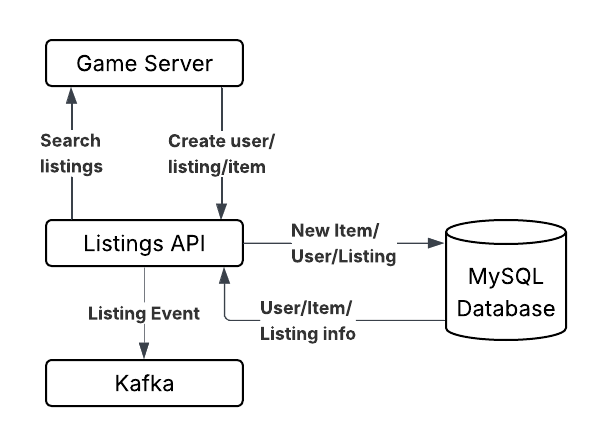
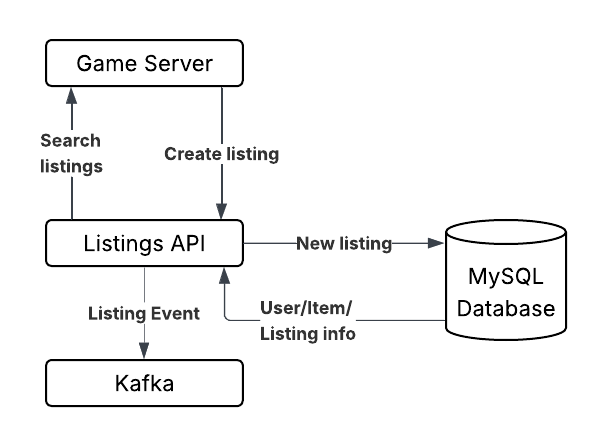
[#6] Created ERD and updated other documentation to include State API

Changed region(s): [[0.2673, 0.2915, 0.4752, 0.4081], [0.4752, 0.4955, 0.6535, 0.6121]]

diff --git a/README.md b/README.md
@@ -20,10 +20,15 @@ The technology stack of this project is as follows:
 
 # System Architecture
 
-![System Design.png](images/System%20Design.png)
+![HLD.png](images/HLD.png)
 
 This project is intended for use by a game server. This server will query the APIs for the user.
-The Listings API interacts with the DB for creating users/items/listings, and retrieves this info later on.
+The State API is used for creating items/users and handling the users wallet.
+The Listings API interacts with the DB for creating and retrieving listings as well as retrieving item/user info.
 The Notifications API has a DB entry for storing created notifications and will retrieve user info from the DB also.
 The Listings API pushes a message to a kafka topic whenever a listing is created.
 The Notifications API consumes these messages and sends out notifications to all users who have subscription criteria matching that listing.
+
+# Database
+
+![Entity Relationship Diagram.png](images/Entity%20Relationship%20Diagram.png)

diff --git a/listings/README.md b/listings/README.md
@@ -7,3 +7,4 @@ This API handles everything associated with listings. This means creation of use
 
 The external game server will query the api. The API interacts with the database to store/retreive any data which needs to persist.
 When a listing is created, it is published to a kafka topic.
+
